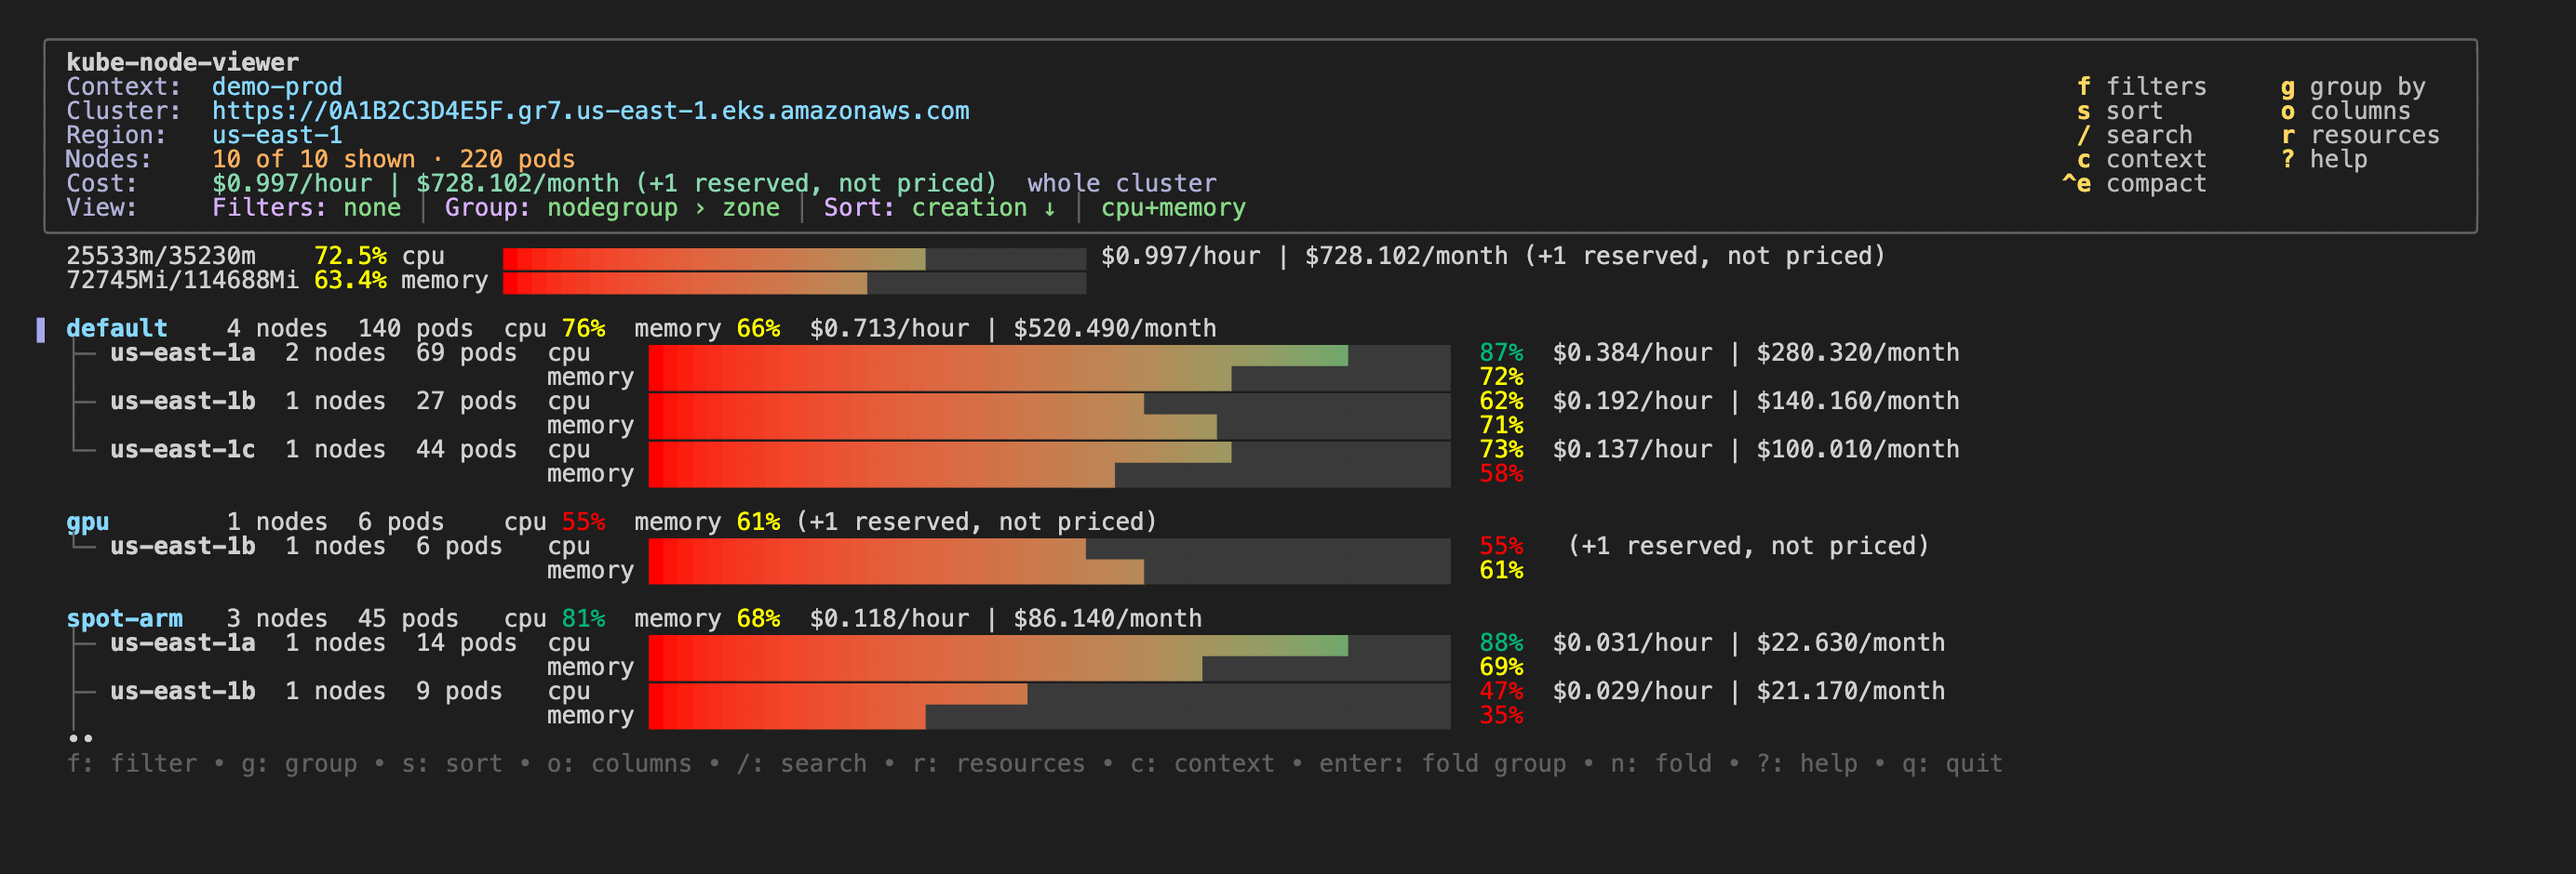
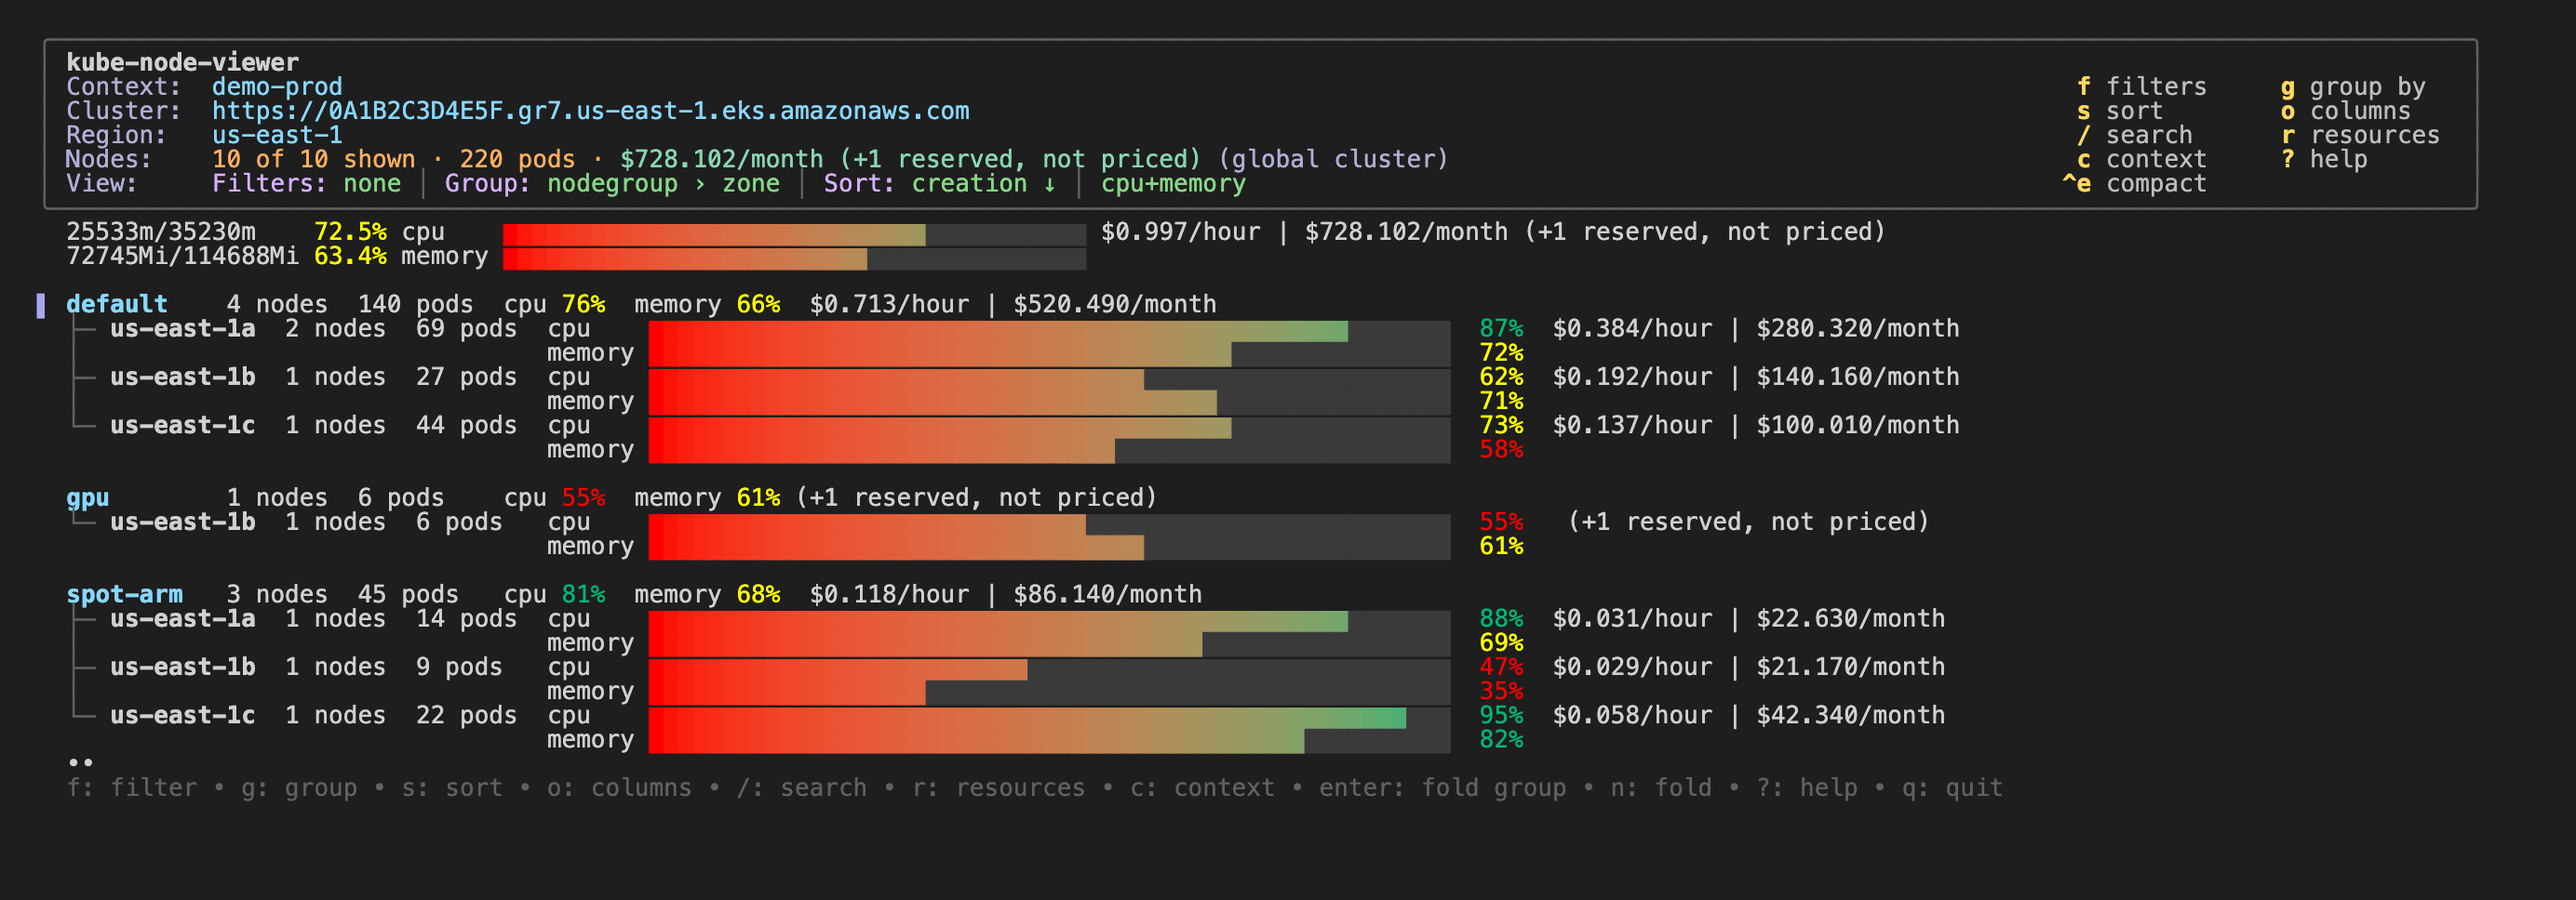
style: the cluster cost goes on the Nodes line
The owner preferred the cluster's cost next to the counts over a row of
its own: 4 of 10 shown · 89 pods · $728.102/month (global cluster), in
every header size.

diff --git a/pkg/model/header.go b/pkg/model/header.go
@@ -63,20 +63,26 @@ func (u *UIModel) recentIssue() string {
 	return msg
 }
 
-// clusterCost is the cost of every watched node, whatever the filters, for
-// the header; empty with pricing disabled. short drops the monthly figure.
-func (u *UIModel) clusterCost(stats Stats, short bool) string {
+// clusterCost is the monthly cost of every watched node, whatever the
+// filters, shown after the node and pod counts; empty with pricing disabled.
+func (u *UIModel) clusterCost(stats Stats) string {
 	if u.DisablePricing {
 		return ""
 	}
-	cost := u.printer.Sprintf("$%0.3f/hour", stats.TotalPrice)
-	if !short {
-		cost += u.printer.Sprintf(" | $%0.3f/month", stats.TotalPrice*avgHoursPerMonth)
-	}
+	cost := costValue(u.printer.Sprintf("$%0.3f/month", stats.TotalPrice*avgHoursPerMonth))
 	if stats.UnpricedReserved > 0 {
-		cost += u.printer.Sprintf(" (+%d reserved, not priced)", stats.UnpricedReserved)
+		cost += costValue(u.printer.Sprintf(" (+%d reserved, not priced)", stats.UnpricedReserved))
 	}
-	return cost
+	return cost + headerLabel(" (global cluster)")
+}
+
+// countsWithCost is the node and pod counts, then the cluster's cost.
+func (u *UIModel) countsWithCost(counts string, stats Stats) string {
+	out := countsValue(counts)
+	if cost := u.clusterCost(stats); cost != "" {
+		out += countsValue(" · ") + cost
+	}
+	return out
 }
 
 // headerKeys are the main keys shown in the header panel, as key and action.
@@ -147,11 +153,7 @@ func (u *UIModel) header(stats Stats, nodes []*Node) string {
 	issue := u.recentIssue()
 	if u.headerSize() == headerLine {
 		sep := viewSep(" │ ")
-		line := headerContext(context) + sep + countsValue(counts)
-		if cost := u.clusterCost(stats, true); cost != "" {
-			line += sep + costValue(cost)
-		}
-		line += sep + u.viewSummary()
+		line := headerContext(context) + sep + u.countsWithCost(counts, stats) + sep + u.viewSummary()
 		if issue != "" {
 			line += sep + u.style.red("⚠ "+issue)
 		}
@@ -169,10 +171,7 @@ func (u *UIModel) header(stats Stats, nodes []*Node) string {
 				where = append(where, headerValue(s))
 			}
 		}
-		where = append(where, countsValue(counts))
-		if cost := u.clusterCost(stats, true); cost != "" {
-			where = append(where, costValue(cost))
-		}
+		where = append(where, u.countsWithCost(counts, stats))
 		body := strings.Join(where, headerLabel(" · ")) + "\n" + u.viewSummary()
 		if issue != "" {
 			body += "\n" + u.style.red("⚠ "+issue)
@@ -183,12 +182,8 @@ func (u *UIModel) header(stats Stats, nodes []*Node) string {
 		{"Context:", headerValue(context)},
 		{"Cluster:", headerValue(orDash(u.info.Server))},
 		{"Region:", headerValue(orDash(region))},
-		{"Nodes:", countsValue(counts)},
+		{"Nodes:", u.countsWithCost(counts, stats)},
 		{"View:", u.viewSummary()},
-	}
-	if cost := u.clusterCost(stats, false); cost != "" {
-		// after Nodes, before View: the cluster's figures together
-		rows = append(rows[:4], append([][2]string{{"Cost:", costValue(cost) + headerLabel("  whole cluster")}}, rows[4:]...)...)
 	}
 	if issue != "" {
 		rows = append(rows, [2]string{"Issue:", u.style.red(issue) + headerLabel("  full log: "+u.issueLog)})

diff --git a/pkg/model/fit_internal_test.go b/pkg/model/fit_internal_test.go
@@ -167,19 +167,19 @@ func TestHeaderKeepsTheClusterCost(t *testing.T) {
 	u.SetView(v)
 	out := u.View()
 	header := out[:strings.Index(out, "╰")]
-	if !strings.Contains(header, "Cost:") || !strings.Contains(header, "$0.997/hour |") {
-		t.Errorf("cluster cost not in the header under a filter:\n%s", header)
+	if !strings.Contains(header, "3 of 10 shown · 45 pods · $728.102/month (+1 reserved, not priced) (global cluster)") {
+		t.Errorf("cluster cost not after the counts under a filter:\n%s", header)
 	}
 	if !strings.Contains(out, "$0.118/hour") {
 		t.Error("the summary lost the filtered cost")
 	}
 	u.Update(tea.KeyMsg{Type: tea.KeyCtrlE})
-	if compact := u.View(); !strings.Contains(compact[:strings.Index(compact, "╰")], "$0.997/hour") {
+	if compact := u.View(); !strings.Contains(compact[:strings.Index(compact, "╰")], "(global cluster)") {
 		t.Errorf("compact header without the cluster cost:\n%s", compact)
 	}
 	u.DisablePricing = true
 	u.dirty = true
-	if strings.Contains(u.View(), "Cost:") {
+	if strings.Contains(u.View(), "global cluster") {
 		t.Error("cost shown with pricing disabled")
 	}
 }

diff --git a/specs/interactive-tui/requirements.md b/specs/interactive-tui/requirements.md
@@ -275,8 +275,9 @@ folded groups SHALL be saved with the view.
 > on screen: with filters or a search, usage and cost are those of the nodes
 > kept, marked `(filtered: N of M nodes)`; the owner wanted the cost of what
 > the filters show, not the cluster's.
-> The header keeps the whole cluster's cost (`Cost:` in the full panel, the
-> hourly figure in the compact and one-line headers), so both are in view.
+> The header keeps the whole cluster's monthly cost after the node and pod
+> counts (`4 of 10 shown · 89 pods · $728.102/month (global cluster)`), in
+> every header size, so both are in view.
 
 ## Counter-examples
 

diff --git a/CHANGELOG.md b/CHANGELOG.md
@@ -10,7 +10,8 @@ All notable changes to this project are documented here. Format:
 
 - The cluster summary follows the filters and search: usage and cost are
   those of the nodes on screen, marked `(filtered: N of M nodes)`.
-- The header keeps the whole cluster's cost (`Cost:`), whatever the filters.
+- The header keeps the whole cluster's monthly cost after the node and pod
+  counts, marked `(global cluster)`, whatever the filters.
 
 ## [0.8.2] - 2026-11-02
 
